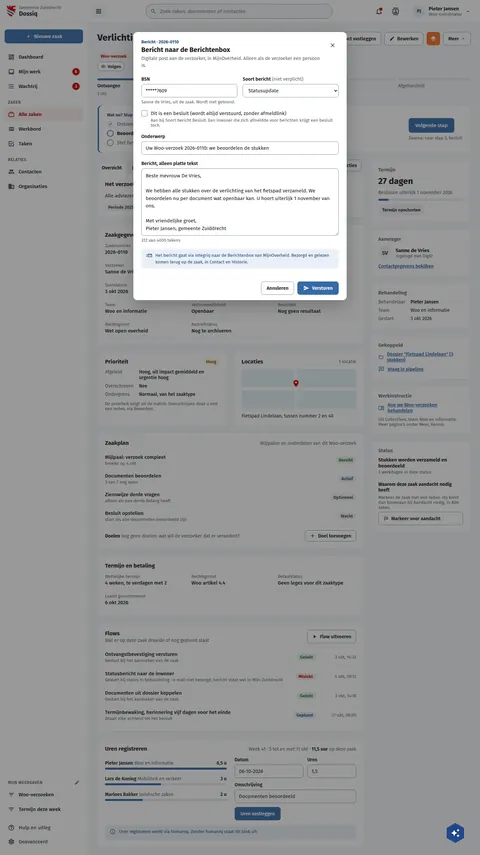
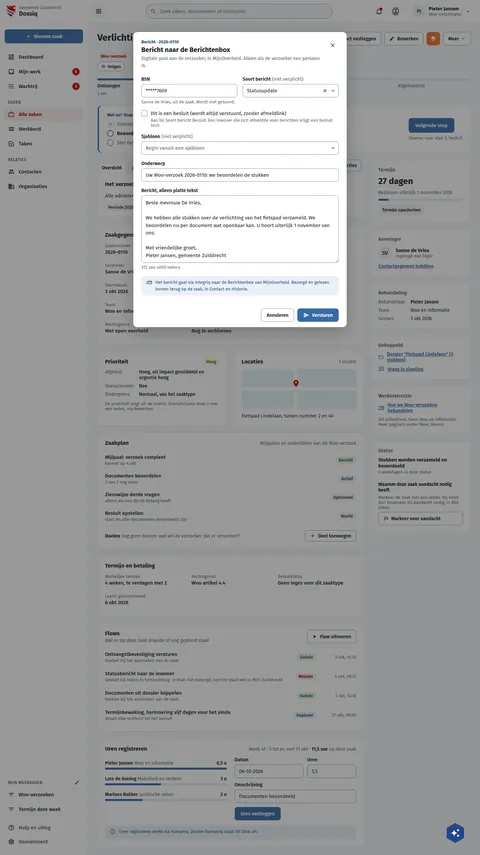
fix(screens): DqBerichtVersturen draws the template field and the select's clear button (#561)
Assisted-by: ClaudeCode:claude-opus-5-5

Changed region(s): [[0.2812, 0.152, 0.7188, 0.3953]]

diff --git a/preview/screens/boards/DqBerichtVersturen.html b/preview/screens/boards/DqBerichtVersturen.html
@@ -323,7 +323,7 @@ a{color:var(--sc-primary, #3669a5)}a:hover{color:var(--sc-primary-deep, #234a78)
         <button type="button" aria-label="Sluiten" style="flex: none; width: 36px; height: 36px; display: inline-flex; align-items: center; justify-content: center; border: 0; border-radius: 18px; background: transparent; color: var(--sc-work-text, #3d4047)"><svg width="20" height="20" viewbox="0 0 24 24" fill="currentColor" aria-hidden="true"><path d="M19,6.41L17.59,5L12,10.59L6.41,5L5,6.41L10.59,12L5,17.59L6.41,19L12,13.41L17.59,19L19,17.59L13.41,12L19,6.41Z"></path></svg></button>
       </div>
       <form style="display: flex; flex-direction: column; gap: 18px; padding: 18px 24px 22px">
-<div style="display: grid; grid-template-columns: repeat(auto-fit, minmax(220px, 1fr)); gap: 14px 16px"><div style="display: flex; flex-direction: column; gap: 6px; min-width: 0"><label for="f4" style="font-size: 14px; font-weight: 600">BSN</label><input id="f4" type="text" value="*****7609" style="box-sizing: border-box; width: 100%; height: 40px; padding: 0 12px; border: 1px solid var(--sc-work-field, #828a95); border-radius: 8px; background: #ffffff; font: 400 15px var(--sc-font, 'Fira Sans'), sans-serif; color: var(--sc-work-ink, #1b1c1d)"><span style="font-size: 13px; color: var(--sc-work-muted, #5e6168)">Sanne de Vries, uit de zaak. Wordt niet getoond.</span></div><div style="display: flex; flex-direction: column; gap: 6px; min-width: 0"><label for="f5" style="font-size: 14px; font-weight: 600">Soort bericht<span style="font-weight: 400; color: var(--sc-work-muted, #5e6168)"> (niet verplicht)</span></label><select id="f5" style="box-sizing: border-box; width: 100%; height: 40px; padding: 0 12px; border: 1px solid var(--sc-work-field, #828a95); border-radius: 8px; background: #ffffff; font: 400 15px var(--sc-font, 'Fira Sans'), sans-serif; color: var(--sc-work-ink, #1b1c1d)"><option>Informatie</option><option selected>Statusupdate</option><option>Besluit</option></select></div></div><div style="display: flex; flex-direction: column; gap: 4px"><label for="f5b" style="display: flex; align-items: center; gap: 10px; font-size: 15px"><input id="f5b" type="checkbox" style="width: 18px; height: 18px; accent-color: var(--sc-primary, #3669a5); margin: 0">Dit is een besluit (wordt altijd verstuurd, zonder afmeldlink)</label><span style="font-size: 13px; color: var(--sc-work-muted, #5e6168); padding-left: 28px">Aan bij Soort bericht Besluit. Een inwoner die zich afmeldde voor berichten krijgt een besluit toch.</span></div><div style="display: flex; flex-direction: column; gap: 6px; min-width: 0"><label for="f6" style="font-size: 14px; font-weight: 600">Onderwerp</label><input id="f6" type="text" value="Uw Woo-verzoek 2026-0110: we beoordelen de stukken" required style="box-sizing: border-box; width: 100%; height: 40px; padding: 0 12px; border: 1px solid var(--sc-work-field, #828a95); border-radius: 8px; background: #ffffff; font: 400 15px var(--sc-font, 'Fira Sans'), sans-serif; color: var(--sc-work-ink, #1b1c1d)"></div><div style="display: flex; flex-direction: column; gap: 6px; min-width: 0"><label for="f7" style="font-size: 14px; font-weight: 600">Bericht, alleen platte tekst</label><textarea id="f7" rows="8" style="box-sizing: border-box; width: 100%; padding: 10px 12px; border: 1px solid var(--sc-work-field, #828a95); border-radius: 8px; font: 400 15px var(--sc-font, 'Fira Sans'), sans-serif; color: var(--sc-work-ink, #1b1c1d); line-height: 1.5; resize: vertical">Beste mevrouw De Vries,
+<div style="display: grid; grid-template-columns: repeat(auto-fit, minmax(220px, 1fr)); gap: 14px 16px"><div style="display: flex; flex-direction: column; gap: 6px; min-width: 0"><label for="f4" style="font-size: 14px; font-weight: 600">BSN</label><input id="f4" type="text" value="*****7609" style="box-sizing: border-box; width: 100%; height: 40px; padding: 0 12px; border: 1px solid var(--sc-work-field, #828a95); border-radius: 8px; background: #ffffff; font: 400 15px var(--sc-font, 'Fira Sans'), sans-serif; color: var(--sc-work-ink, #1b1c1d)"><span style="font-size: 13px; color: var(--sc-work-muted, #5e6168)">Sanne de Vries, uit de zaak. Wordt niet getoond.</span></div><div style="display: flex; flex-direction: column; gap: 6px; min-width: 0"><label for="f5" style="font-size: 14px; font-weight: 600">Soort bericht<span style="font-weight: 400; color: var(--sc-work-muted, #5e6168)"> (niet verplicht)</span></label><div id="f5" role="combobox" aria-expanded="false" style="box-sizing: border-box; width: 100%; height: 40px; padding: 0 8px 0 12px; border: 1px solid var(--sc-work-field, #828a95); border-radius: 8px; background: #ffffff; font: 400 15px var(--sc-font, 'Fira Sans'), sans-serif; color: var(--sc-work-ink, #1b1c1d); display: flex; align-items: center; gap: 4px"><span style="flex: 1 1 auto; min-width: 0">Statusupdate</span><button type="button" aria-label="Selectie wissen" style="width: 24px; height: 24px; display: inline-flex; align-items: center; justify-content: center; border: 0; background: transparent; color: var(--sc-work-ink, #1b1c1d); padding: 0"><svg width="16" height="16" viewbox="0 0 24 24" fill="currentColor" aria-hidden="true"><path d="M19,6.41L17.59,5L12,10.59L6.41,5L5,6.41L10.59,12L5,17.59L6.41,19L12,13.41L17.59,19L19,17.59L13.41,12L19,6.41Z"></path></svg></button><span style="display: inline-flex; color: var(--sc-work-ink, #1b1c1d)"><svg width="16" height="16" viewbox="0 0 24 24" fill="currentColor" aria-hidden="true"><path d="M7.41,8.58L12,13.17L16.59,8.58L18,10L12,16L6,10L7.41,8.58Z"></path></svg></span></div></div></div><div style="display: flex; flex-direction: column; gap: 4px"><label for="f5b" style="display: flex; align-items: center; gap: 10px; font-size: 15px"><input id="f5b" type="checkbox" style="width: 18px; height: 18px; accent-color: var(--sc-primary, #3669a5); margin: 0">Dit is een besluit (wordt altijd verstuurd, zonder afmeldlink)</label><span style="font-size: 13px; color: var(--sc-work-muted, #5e6168); padding-left: 28px">Aan bij Soort bericht Besluit. Een inwoner die zich afmeldde voor berichten krijgt een besluit toch.</span></div><div style="display: flex; flex-direction: column; gap: 6px; min-width: 0"><label for="f5c" style="font-size: 14px; font-weight: 600">Sjabloon<span style="font-weight: 400; color: var(--sc-work-muted, #5e6168)"> (niet verplicht)</span></label><div id="f5c" role="combobox" aria-expanded="false" style="box-sizing: border-box; width: 100%; height: 40px; padding: 0 8px 0 12px; border: 1px solid var(--sc-work-field, #828a95); border-radius: 8px; background: #ffffff; font: 400 15px var(--sc-font, 'Fira Sans'), sans-serif; color: var(--sc-work-muted, #5e6168); display: flex; align-items: center; gap: 4px"><span style="flex: 1 1 auto; min-width: 0">Begin vanuit een sjabloon</span><span style="display: inline-flex; color: var(--sc-work-ink, #1b1c1d)"><svg width="16" height="16" viewbox="0 0 24 24" fill="currentColor" aria-hidden="true"><path d="M7.41,8.58L12,13.17L16.59,8.58L18,10L12,16L6,10L7.41,8.58Z"></path></svg></span></div></div><div style="display: flex; flex-direction: column; gap: 6px; min-width: 0"><label for="f6" style="font-size: 14px; font-weight: 600">Onderwerp</label><input id="f6" type="text" value="Uw Woo-verzoek 2026-0110: we beoordelen de stukken" required style="box-sizing: border-box; width: 100%; height: 40px; padding: 0 12px; border: 1px solid var(--sc-work-field, #828a95); border-radius: 8px; background: #ffffff; font: 400 15px var(--sc-font, 'Fira Sans'), sans-serif; color: var(--sc-work-ink, #1b1c1d)"></div><div style="display: flex; flex-direction: column; gap: 6px; min-width: 0"><label for="f7" style="font-size: 14px; font-weight: 600">Bericht, alleen platte tekst</label><textarea id="f7" rows="8" style="box-sizing: border-box; width: 100%; padding: 10px 12px; border: 1px solid var(--sc-work-field, #828a95); border-radius: 8px; font: 400 15px var(--sc-font, 'Fira Sans'), sans-serif; color: var(--sc-work-ink, #1b1c1d); line-height: 1.5; resize: vertical">Beste mevrouw De Vries,
 
 We hebben alle stukken over de verlichting van het fietspad verzameld. We beoordelen nu per document wat openbaar kan. U hoort uiterlijk 1 november van ons.
 

diff --git a/screens-src/zuiddrecht/DqBerichtVersturen.dc.html b/screens-src/zuiddrecht/DqBerichtVersturen.dc.html
@@ -173,7 +173,7 @@ a{color:#3669a5}a:hover{color:#234a78}
         <button type="button" aria-label="Sluiten" style="flex: none; width: 36px; height: 36px; display: inline-flex; align-items: center; justify-content: center; border: 0; border-radius: 18px; background: transparent; color: #3d4047"><svg width="20" height="20" viewBox="0 0 24 24" fill="currentColor" aria-hidden="true"><path d="M19,6.41L17.59,5L12,10.59L6.41,5L5,6.41L10.59,12L5,17.59L6.41,19L12,13.41L17.59,19L19,17.59L13.41,12L19,6.41Z"></path></svg></button>
       </div>
       <form style="display: flex; flex-direction: column; gap: 18px; padding: 18px 24px 22px">
-<div style="display: grid; grid-template-columns: repeat(auto-fit, minmax(220px, 1fr)); gap: 14px 16px"><div style="display: flex; flex-direction: column; gap: 6px; min-width: 0"><label for="f4" style="font-size: 14px; font-weight: 600">BSN</label><input id="f4" type="text" value="*****7609" style="box-sizing: border-box; width: 100%; height: 40px; padding: 0 12px; border: 1px solid #828a95; border-radius: 8px; background: #ffffff; font: 400 15px 'Fira Sans', sans-serif; color: #1b1c1d"><span style="font-size: 13px; color: #5e6168">Sanne de Vries, uit de zaak. Wordt niet getoond.</span></div><div style="display: flex; flex-direction: column; gap: 6px; min-width: 0"><label for="f5" style="font-size: 14px; font-weight: 600">Soort bericht<span style="font-weight: 400; color: #5e6168"> (niet verplicht)</span></label><select id="f5" style="box-sizing: border-box; width: 100%; height: 40px; padding: 0 12px; border: 1px solid #828a95; border-radius: 8px; background: #ffffff; font: 400 15px 'Fira Sans', sans-serif; color: #1b1c1d"><option>Informatie</option><option selected>Statusupdate</option><option>Besluit</option></select></div></div><div style="display: flex; flex-direction: column; gap: 4px"><label for="f5b" style="display: flex; align-items: center; gap: 10px; font-size: 15px"><input id="f5b" type="checkbox" style="width: 18px; height: 18px; accent-color: #3669a5; margin: 0">Dit is een besluit (wordt altijd verstuurd, zonder afmeldlink)</label><span style="font-size: 13px; color: #5e6168; padding-left: 28px">Aan bij Soort bericht Besluit. Een inwoner die zich afmeldde voor berichten krijgt een besluit toch.</span></div><div style="display: flex; flex-direction: column; gap: 6px; min-width: 0"><label for="f6" style="font-size: 14px; font-weight: 600">Onderwerp</label><input id="f6" type="text" value="Uw Woo-verzoek 2026-0110: we beoordelen de stukken" required style="box-sizing: border-box; width: 100%; height: 40px; padding: 0 12px; border: 1px solid #828a95; border-radius: 8px; background: #ffffff; font: 400 15px 'Fira Sans', sans-serif; color: #1b1c1d"></div><div style="display: flex; flex-direction: column; gap: 6px; min-width: 0"><label for="f7" style="font-size: 14px; font-weight: 600">Bericht, alleen platte tekst</label><textarea id="f7" rows="8" style="box-sizing: border-box; width: 100%; padding: 10px 12px; border: 1px solid #828a95; border-radius: 8px; font: 400 15px 'Fira Sans', sans-serif; color: #1b1c1d; line-height: 1.5; resize: vertical">Beste mevrouw De Vries,
+<div style="display: grid; grid-template-columns: repeat(auto-fit, minmax(220px, 1fr)); gap: 14px 16px"><div style="display: flex; flex-direction: column; gap: 6px; min-width: 0"><label for="f4" style="font-size: 14px; font-weight: 600">BSN</label><input id="f4" type="text" value="*****7609" style="box-sizing: border-box; width: 100%; height: 40px; padding: 0 12px; border: 1px solid #828a95; border-radius: 8px; background: #ffffff; font: 400 15px 'Fira Sans', sans-serif; color: #1b1c1d"><span style="font-size: 13px; color: #5e6168">Sanne de Vries, uit de zaak. Wordt niet getoond.</span></div><div style="display: flex; flex-direction: column; gap: 6px; min-width: 0"><label for="f5" style="font-size: 14px; font-weight: 600">Soort bericht<span style="font-weight: 400; color: #5e6168"> (niet verplicht)</span></label><div id="f5" role="combobox" aria-expanded="false" style="box-sizing: border-box; width: 100%; height: 40px; padding: 0 8px 0 12px; border: 1px solid #828a95; border-radius: 8px; background: #ffffff; font: 400 15px 'Fira Sans', sans-serif; color: #1b1c1d; display: flex; align-items: center; gap: 4px"><span style="flex: 1 1 auto; min-width: 0">Statusupdate</span><button type="button" aria-label="Selectie wissen" style="width: 24px; height: 24px; display: inline-flex; align-items: center; justify-content: center; border: 0; background: transparent; color: #1b1c1d; padding: 0"><svg width="16" height="16" viewBox="0 0 24 24" fill="currentColor" aria-hidden="true"><path d="M19,6.41L17.59,5L12,10.59L6.41,5L5,6.41L10.59,12L5,17.59L6.41,19L12,13.41L17.59,19L19,17.59L13.41,12L19,6.41Z"></path></svg></button><span style="display: inline-flex; color: #1b1c1d"><svg width="16" height="16" viewBox="0 0 24 24" fill="currentColor" aria-hidden="true"><path d="M7.41,8.58L12,13.17L16.59,8.58L18,10L12,16L6,10L7.41,8.58Z"></path></svg></span></div></div></div><div style="display: flex; flex-direction: column; gap: 4px"><label for="f5b" style="display: flex; align-items: center; gap: 10px; font-size: 15px"><input id="f5b" type="checkbox" style="width: 18px; height: 18px; accent-color: #3669a5; margin: 0">Dit is een besluit (wordt altijd verstuurd, zonder afmeldlink)</label><span style="font-size: 13px; color: #5e6168; padding-left: 28px">Aan bij Soort bericht Besluit. Een inwoner die zich afmeldde voor berichten krijgt een besluit toch.</span></div><div style="display: flex; flex-direction: column; gap: 6px; min-width: 0"><label for="f5c" style="font-size: 14px; font-weight: 600">Sjabloon<span style="font-weight: 400; color: #5e6168"> (niet verplicht)</span></label><div id="f5c" role="combobox" aria-expanded="false" style="box-sizing: border-box; width: 100%; height: 40px; padding: 0 8px 0 12px; border: 1px solid #828a95; border-radius: 8px; background: #ffffff; font: 400 15px 'Fira Sans', sans-serif; color: #5e6168; display: flex; align-items: center; gap: 4px"><span style="flex: 1 1 auto; min-width: 0">Begin vanuit een sjabloon</span><span style="display: inline-flex; color: #1b1c1d"><svg width="16" height="16" viewBox="0 0 24 24" fill="currentColor" aria-hidden="true"><path d="M7.41,8.58L12,13.17L16.59,8.58L18,10L12,16L6,10L7.41,8.58Z"></path></svg></span></div></div><div style="display: flex; flex-direction: column; gap: 6px; min-width: 0"><label for="f6" style="font-size: 14px; font-weight: 600">Onderwerp</label><input id="f6" type="text" value="Uw Woo-verzoek 2026-0110: we beoordelen de stukken" required style="box-sizing: border-box; width: 100%; height: 40px; padding: 0 12px; border: 1px solid #828a95; border-radius: 8px; background: #ffffff; font: 400 15px 'Fira Sans', sans-serif; color: #1b1c1d"></div><div style="display: flex; flex-direction: column; gap: 6px; min-width: 0"><label for="f7" style="font-size: 14px; font-weight: 600">Bericht, alleen platte tekst</label><textarea id="f7" rows="8" style="box-sizing: border-box; width: 100%; padding: 10px 12px; border: 1px solid #828a95; border-radius: 8px; font: 400 15px 'Fira Sans', sans-serif; color: #1b1c1d; line-height: 1.5; resize: vertical">Beste mevrouw De Vries,
 
 We hebben alle stukken over de verlichting van het fietspad verzameld. We beoordelen nu per document wat openbaar kan. U hoort uiterlijk 1 november van ons.
 
